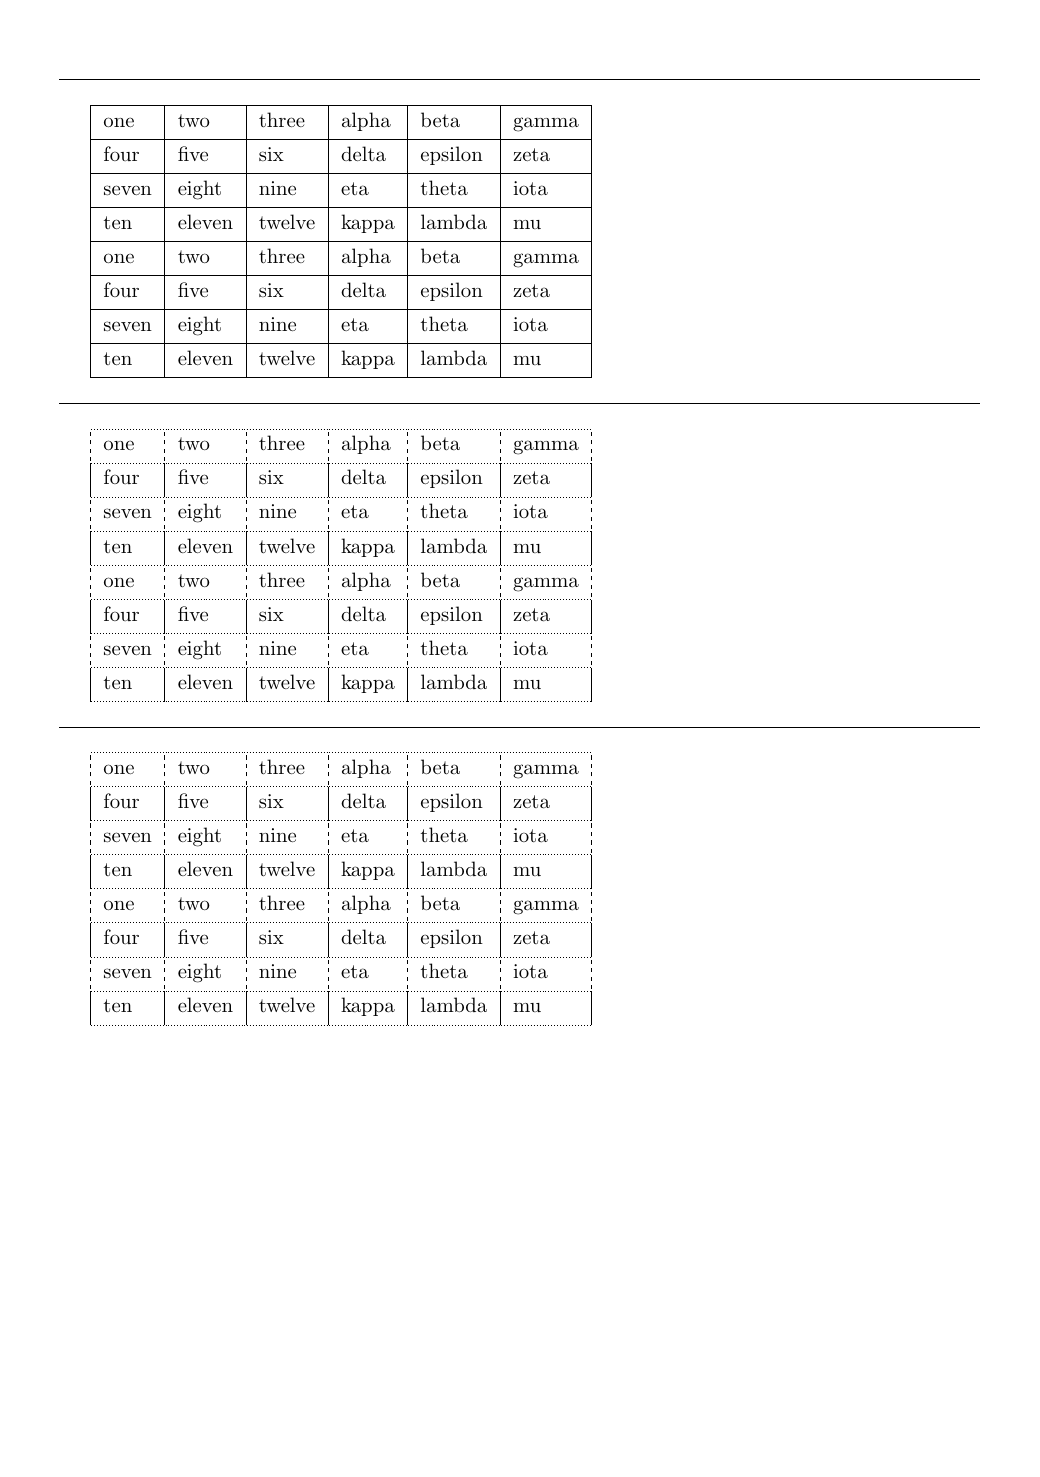
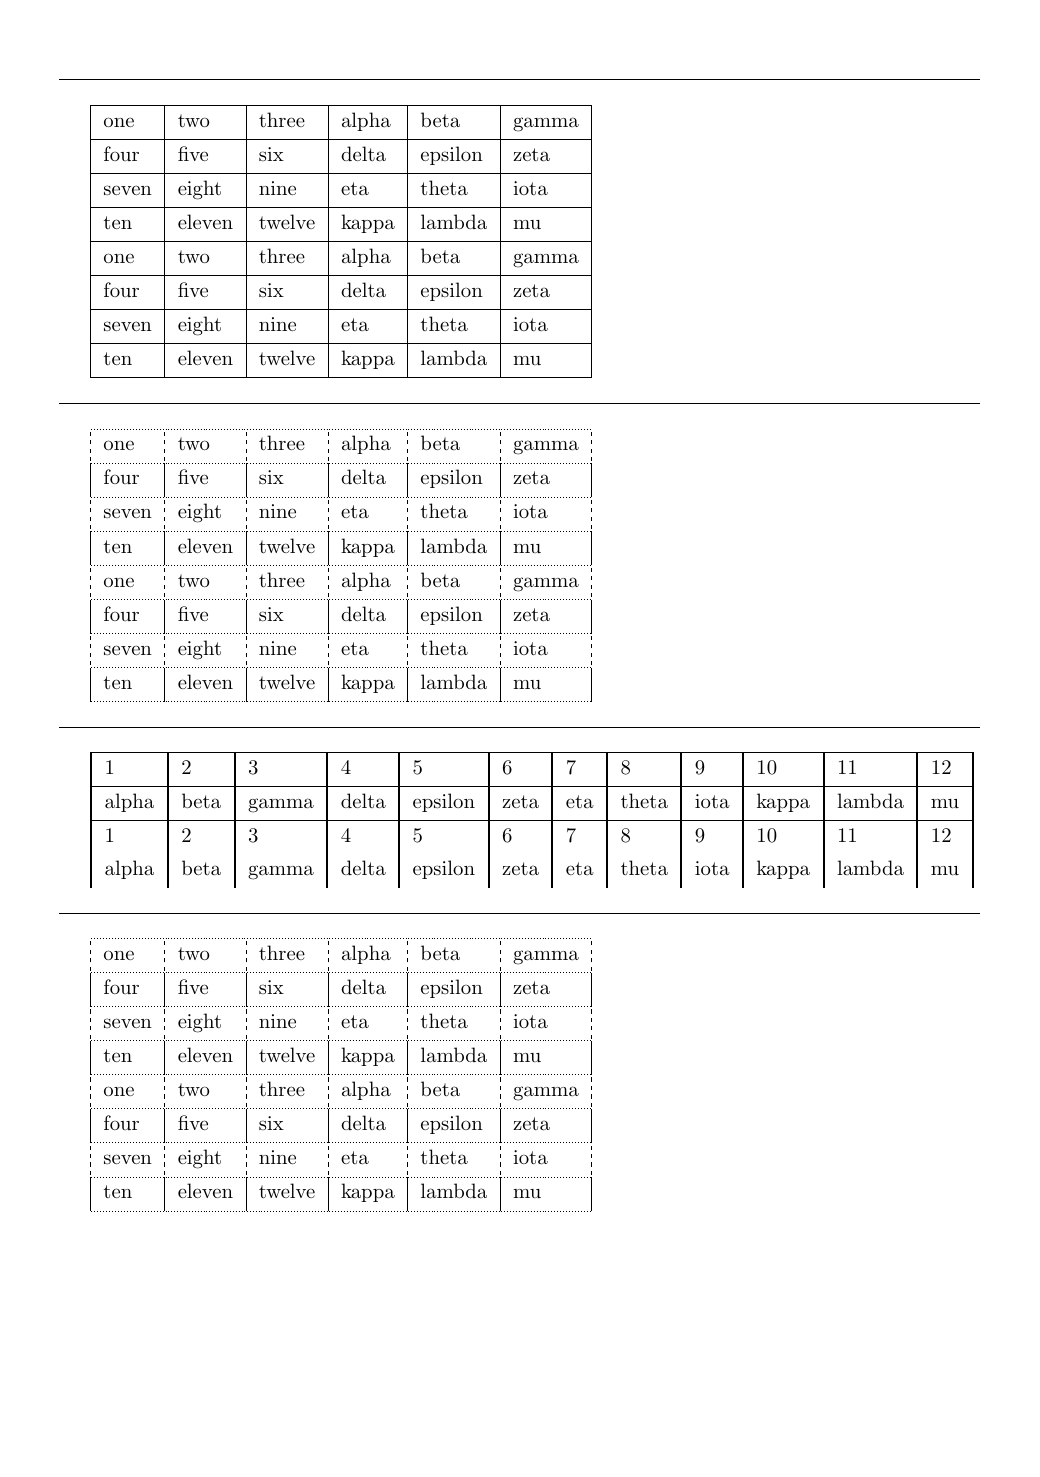
update test files for issue #11

Changed region(s): [[0.0923, 0.4983, 0.9231, 0.8097], [0.1538, 0.7786, 0.2154, 0.8097], [0.0923, 0.7786, 0.1231, 0.8097]]

diff --git a/testfiles/hvline-002.tex b/testfiles/hvline-002.tex
@@ -45,6 +45,18 @@ seven & eight  & nine   & eta   & theta   & iota  \\
 
 \bigskip\hrule\bigskip
 
+% Issue 11: Problem with hline and table with more than 10 columns
+\BEGINTEST{hlines and vlines}
+\begin{tblr}{hline{1-3}={1-12}{solid},vlines={1pt}}
+ 1     & 2    & 3     & 4     & 5       & 6    & 7   & 8     & 9    & 10    & 11     & 12 \\
+ alpha & beta & gamma & delta & epsilon & zeta & eta & theta & iota & kappa & lambda & mu \\
+ 1     & 2    & 3     & 4     & 5       & 6    & 7   & 8     & 9    & 10    & 11     & 12 \\
+ alpha & beta & gamma & delta & epsilon & zeta & eta & theta & iota & kappa & lambda & mu \\
+\end{tblr}
+\ENDTEST
+
+\bigskip\hrule\bigskip
+
 \BEGINTEST{hlines and vlines}
 \begin{tblr}{}
   \SetHlines{-}{dotted}
